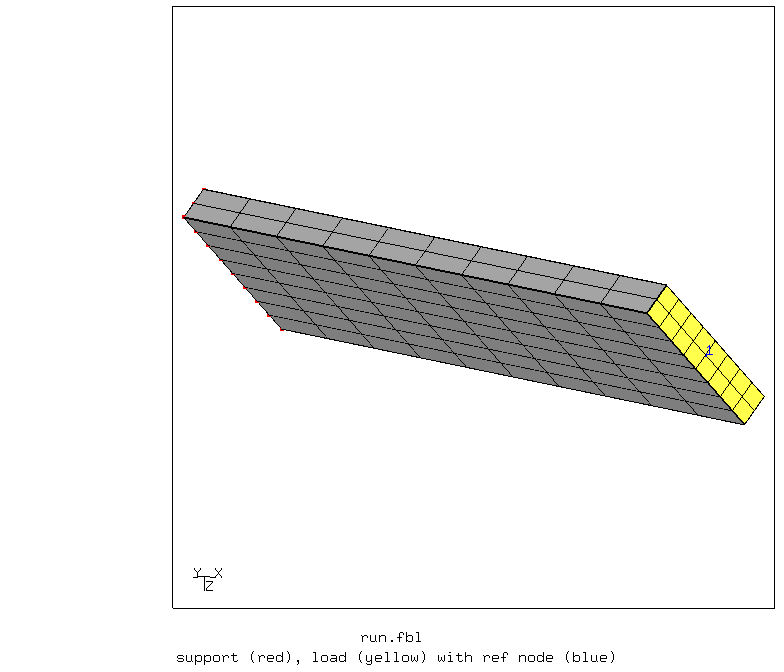
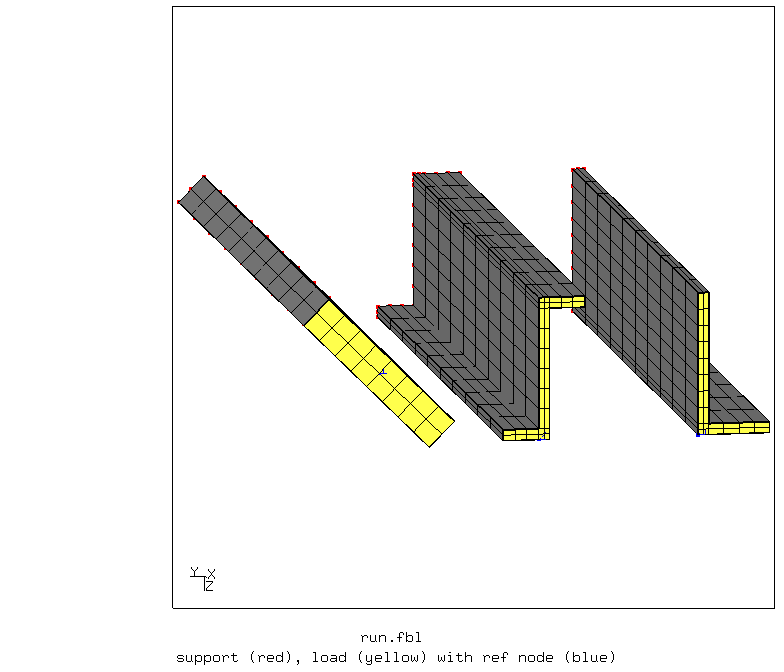
add more sections

Changed region(s): [[0.2143, 0.25, 0.9796, 0.6562], [0.2449, 0.8438, 0.2755, 0.875]]

diff --git a/Linear/BiaxBending/README.md b/Linear/BiaxBending/README.md
@@ -11,7 +11,8 @@ File                           | Contents
 
 ## Model
 
-The model contains a cantilever beam with bending moment about the transverse horizontal axis (y). It is applied to the ref node of a kinematic coupling constraint o the free end surface. The cross section is a rectangle rotated by 45°.
+The model contains three cantilever beams of different cross sections with non-zero deviatoric moment of inertia. Each one is subjected to a bending moment about the transverse horizontal axis (y).
+The bending moment is applied to the ref node of a kinematic coupling constraint of the free end surface.
 
 <img src="Refs/mesh.png" width="400">
 
@@ -21,10 +22,11 @@ In order to not induce transverse stresses by the coupling constraint, the const
 *kinematic
 1
 ```
-This only couples the x displacement and the rotation about y and z of the reference node to the surface. Thus, dofs 2,3 and 4 of the ref node have to be constrained separately.
+This only couples the x displacement and the rotation about y and z of the reference node to the surface. Thus, dofs 2,3 and 4 of the ref nodes have to be constrained separately.
 
 ## Results
 
+The images show the axial stress distribution and the neutral fiber (with color bar steps set to 2).
 ```
 > param.py par.run.fbl
 > cgx -b run.fbl
